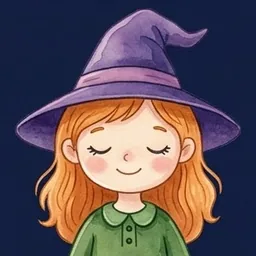
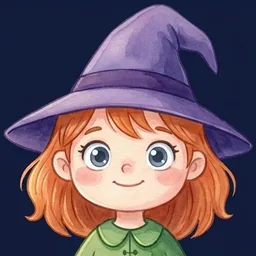
Portraits de Mirabelle, Roux et Étoile régénérés avec les yeux ouverts ; v179
Claude-Session: https://claude.ai/code/session_0196fEv2MqjDYqgevijpwYGd

diff --git a/index.html b/index.html
@@ -1393,7 +1393,7 @@ $("dlall").onclick=async()=>{
 };
 
 /* Réglages : triple toucher sur le logo */
-const APP_VERSION="178";
+const APP_VERSION="179";
 let logoTaps=[];
 document.querySelector(".logo").addEventListener("click",()=>{const t=Date.now();logoTaps=logoTaps.filter(x=>t-x<800);logoTaps.push(t);if(logoTaps.length>=3){logoTaps=[];openSettings()}});
 function arm(btn,label,fn){let t=0;const base=btn.textContent;btn.onclick=()=>{if(t){clearTimeout(t);t=0;btn.classList.remove("arm");btn.textContent=base;fn();return}btn.classList.add("arm");btn.textContent=label;t=setTimeout(()=>{t=0;btn.classList.remove("arm");btn.textContent=base},3000)}}
